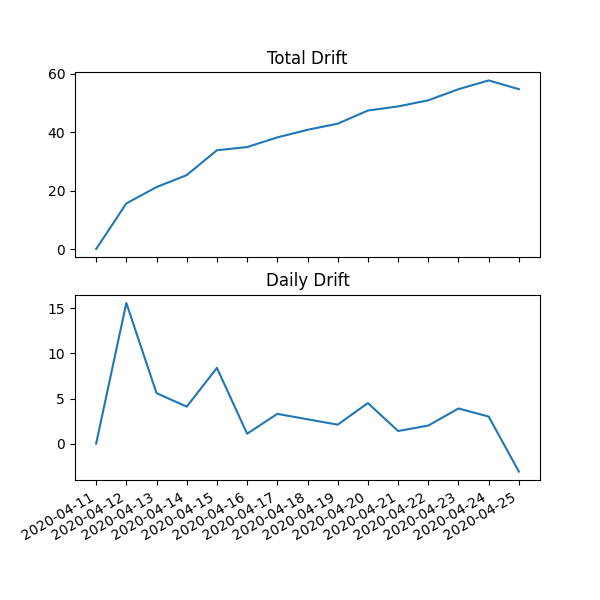
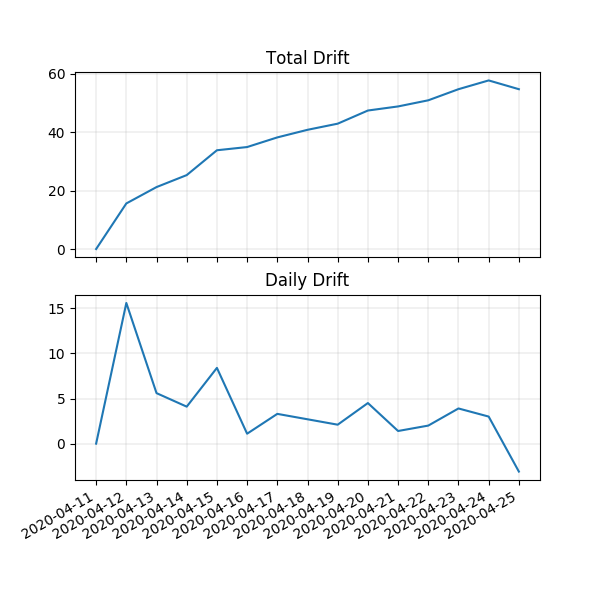
add grid lines

diff --git a/script/populate_readme.py b/script/populate_readme.py
@@ -76,29 +76,20 @@ plt.title('Max, Min, Mean & Median')
 plt.fill_between(x='date', y1='min', y2='max', alpha=0.4, data=df)
 plt.plot(df['date'], df['mean'])
 plt.plot(df['date'], df['median'])
+plt.grid(linewidth=0.25)
 plt.legend(['Mean', 'Median'], loc='upper left')
 plt.gcf().autofmt_xdate()
 plt.savefig(f"{pwd_path}/../images/fig1.png", format="png")
 
-
 fig, (ax1, ax2) = plt.subplots(2, 1, sharex=True, figsize=(6, 6))
 ax1.plot(df['date'], df['drift_total'])
 ax1.set_title('Total Drift')
+ax1.grid(linewidth=0.25)
 ax2.plot(df['date'], df['drift_daily'])
 ax2.set_title('Daily Drift')
+ax2.grid(linewidth=0.25)
 plt.gcf().autofmt_xdate()
 plt.savefig(f"{pwd_path}/../images/fig2.png", format="png")
-
-
-"""
-fig, (ax1, ax2) = plt.subplots(1, 1, sharex=True, figsize=(6, 6))
-ax1.fill_between(x='date', y1='min', y2='max', alpha=0.4, data=df)
-ax1.plot(df['date'], df['median'])
-ax1.plot(df['date'], df['mean'])
-plt.gcf().autofmt_xdate()
-plt.show()
-"""
-
 
 stat.append(clms)
 with open(f'{pwd_path}/../README.md', 'w') as readme_file:

diff --git a/README.md b/README.md
@@ -1,6 +1,6 @@
 # MMR Drift Status
 
-**Last Updated (UTC):** 2020-04-25 19:30:13.615074
+**Last Updated (UTC):** 2020-04-25 20:25:42.714668
 ![Figure 1](/images/fig1.png)
 ![Figure 2](/images/fig2.png)
 |date| min| max| mean| drift_daily| drift_total| median| stdev|
